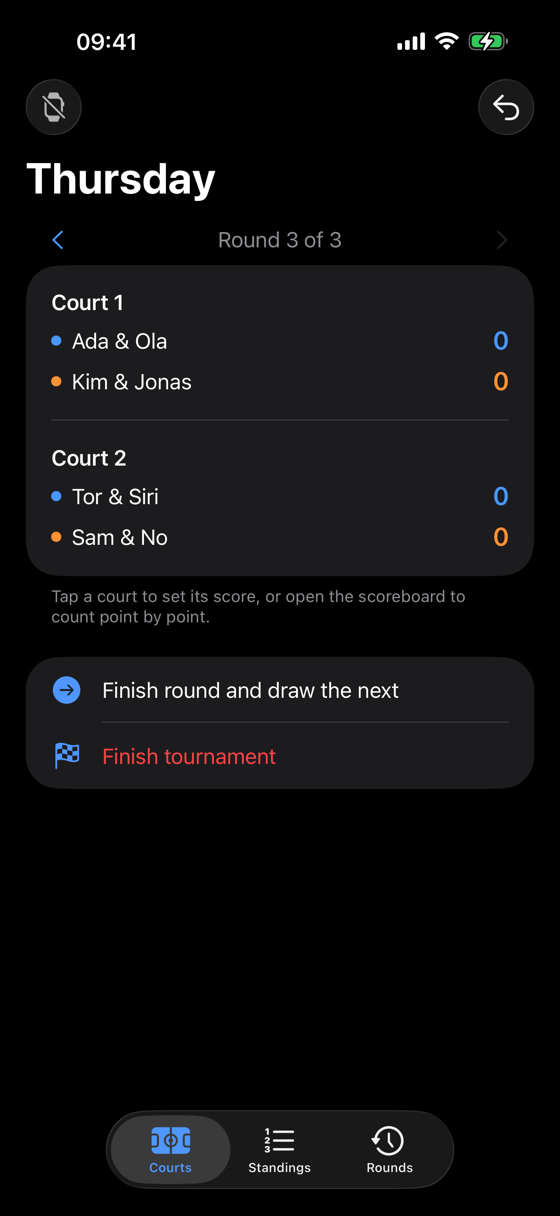
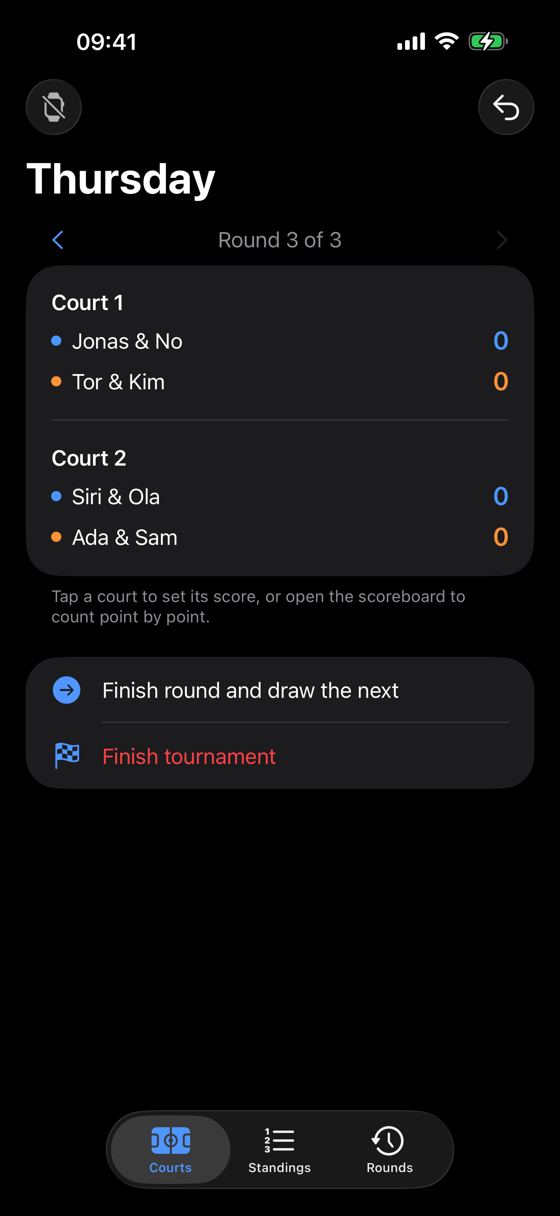
build: a script for retaking every screenshot
Taking these by hand meant remembering which demo arguments produce the score
the alt text describes, that the home screen only appears on a container that
has never held a session, and which two devices the sizes come from.

It also checks the images against the sizes index.html declares, since a shot
at an unexpected size lays the page out crooked and nothing else would say so.

Changed region(s): [[0.1214, 0.25, 0.3339, 0.3438], [0.1214, 0.4062, 0.3036, 0.4688]]

diff --git a/README.md b/README.md
@@ -212,3 +212,21 @@ prompt. Both need two real iPhones.
 
 `swift scripts/psk-spike.swift` checks, in a couple of seconds and with no devices at all,
 that a session code still works as a TLS pre-shared key.
+
+## Screenshots
+
+```sh
+./scripts/shots.sh             # every shot the landing page and the App Store use
+./scripts/shots.sh --docs      # only docs/images/
+./scripts/shots.sh --no-build  # reuse the last build
+```
+
+Docs images are written straight into `docs/images/` at the sizes `docs/index.html`
+declares, and the script fails if the two ever disagree — a wrong size is a crooked page
+that nothing else would catch. App Store images land in `.build/appstore/`, at the
+simulator's own resolution, ready to upload.
+
+The shots come from an iPhone 17 Pro Max and an Apple Watch Ultra 3; set
+`REKKERT_SHOTS_PHONE` or `REKKERT_SHOTS_WATCH` to shoot a listing slot of another size.
+App Store Connect is the only thing that knows which pixel sizes it accepts this month, so
+the script prints what it made rather than claiming the sizes are right.
